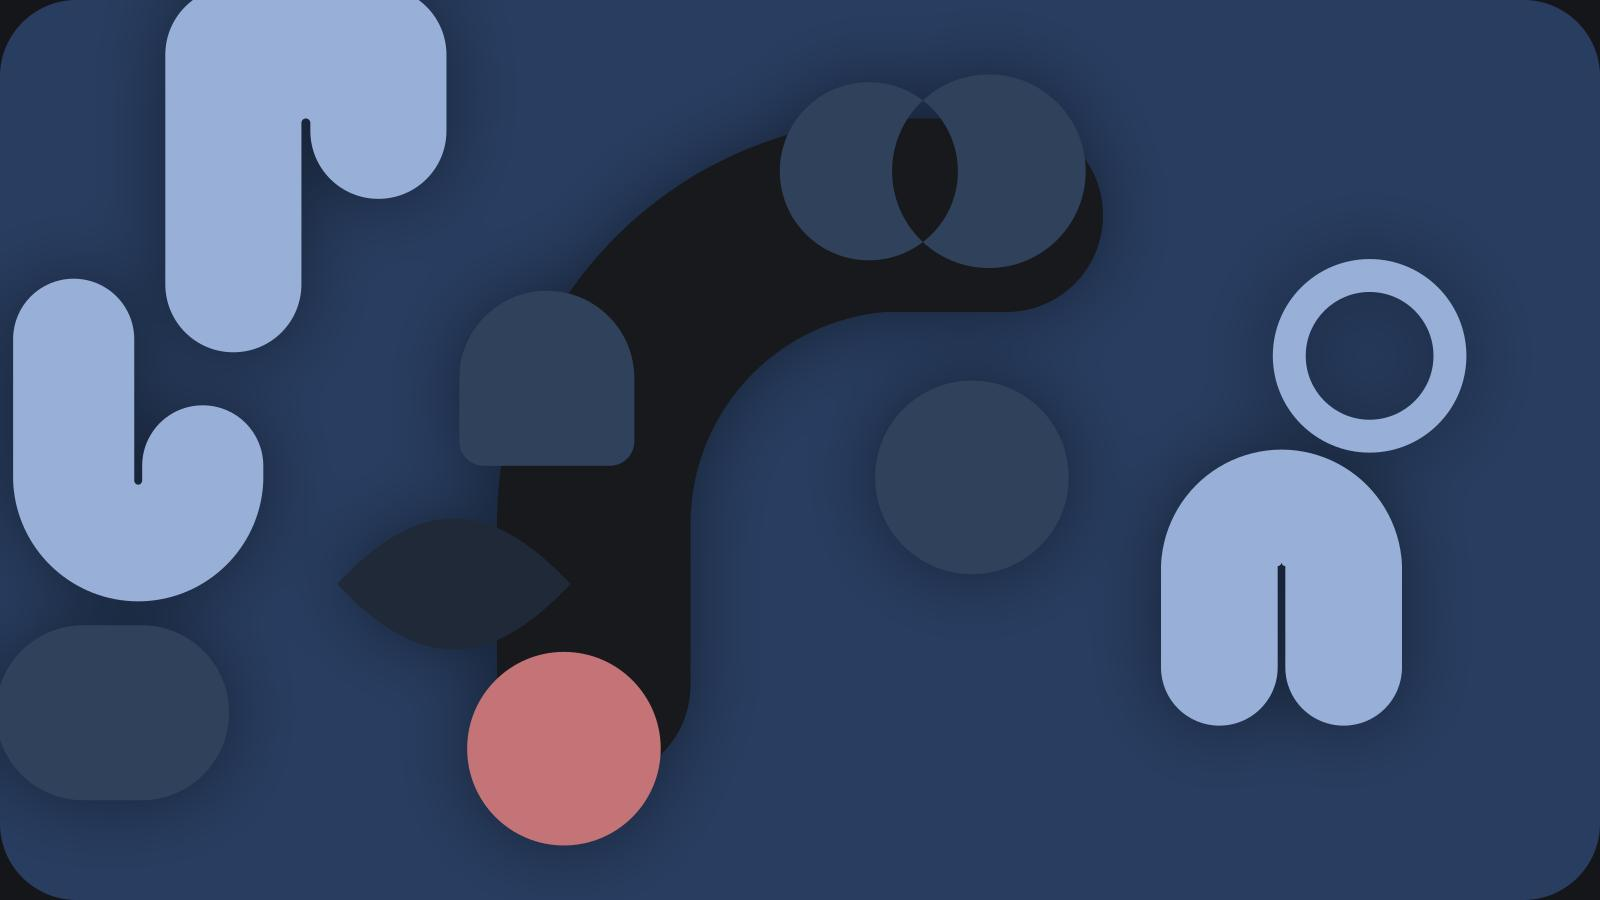
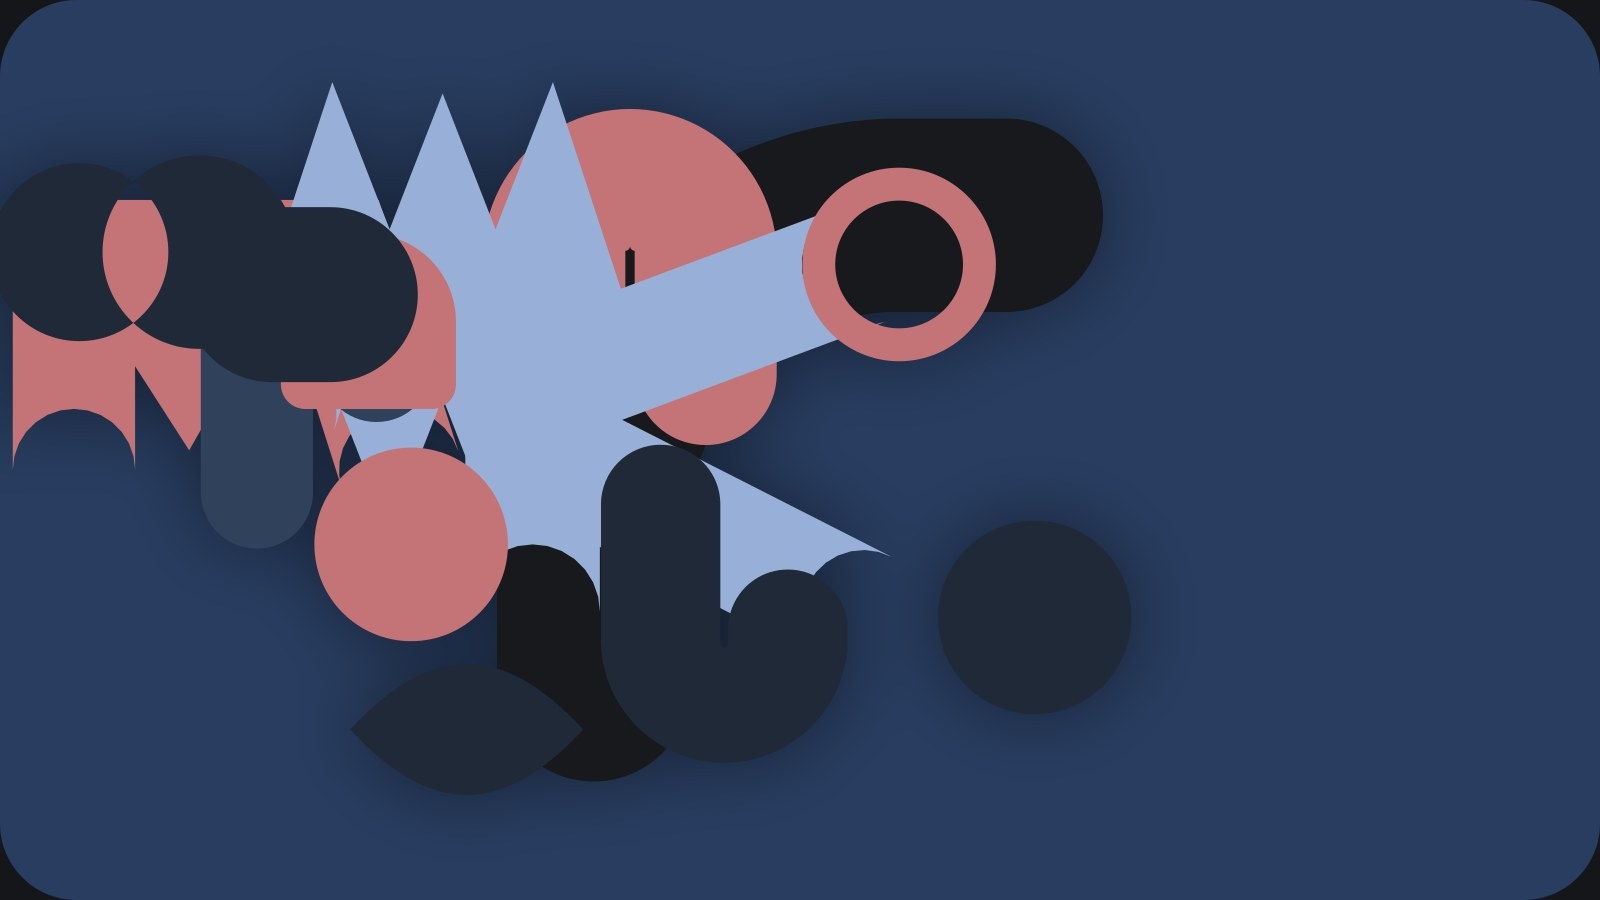
feat: new letters m/w/k, tile-cached auto packer, pipx wheel
- generated tube-style letters m, w, k (material stroke ~400-430 design px,
  consistent keegl) added to assets/shapes.json layout1; ranked_shapes and
  autofill LETTERS/dominant pools use them
- rework autofill placement: cache per-shape local masks (quantised scale,
  full-resolution render reduced to grid cells) so the greedy packer no longer
  redraws the whole canvas per trial — ~3x faster builds
- fix packer rollback: volume guard moved before placing so occ mask and
  items list stay consistent
- bundle assets/shapes.json into the wheel (package-data); version 0.2.0;
  README: pipx install from wheel

diff --git a/wallgen/autofill.py b/wallgen/autofill.py
@@ -85,6 +85,79 @@ def _mask(*items) -> np.ndarray:
     return arr[:, :, 0] < 128
 
 
+_TILE_CACHE: Dict[Tuple, Tuple[np.ndarray, int, int]] = {}
+
+
+def _tile(item) -> Tuple[np.ndarray, int, int]:
+    """Cached local mask of `item` plus its design-space cell anchor.
+
+    Renders the shape once into a tight grid buffer centred on (0,0); placement
+    then shifts this tile by whole cells, so the packer never redraws a shape
+    mask per trial position.  The shape scale is quantised to GRID-sized steps
+    so repeated/neighbouring scales collapse onto the same cached tile. Returns
+    (tile, row0, col0) — top-left cell offset from the shape centre.
+    """
+    qs = round(getattr(item, "scale", 1.0) * (100.0 / GRID)) / (100.0 / GRID) if item.kind == "letter" else None
+    key = (item.kind,
+           (item.letter, item.layout, qs) if item.kind == "letter" else
+           (round(item.w, 1), round(item.h, 1), round(item.r, 1),
+            round(getattr(item, "hole", 0.66), 3), round(getattr(item, "shift", 0.62), 3)))
+    if key in _TILE_CACHE:
+        return _TILE_CACHE[key]
+
+    base = _item_of(item)
+    if item.kind == "letter":
+        base.scale = qs
+    nw, nh = _natural(item.kind, w=base.w, h=base.h, r=base.r, shift=base.shift,
+                      layout=base.layout, letter=base.letter)
+    sc = base.scale if base.kind == "letter" else 1.0
+    nw, nh = nw * sc, nh * sc
+    hc = max(int(np.ceil(min(nh, 3000) / GRID)) + 2, 3)
+    wc = max(int(np.ceil(min(nw, 3000) / GRID)) + 2, 3)
+
+    surf = cairo.ImageSurface(cairo.FORMAT_ARGB32, wc * GRID, hc * GRID)
+    cr = cairo.Context(surf)
+    cr.set_source_rgb(1, 1, 1)
+    cr.paint()
+    cr.scale(1.0 / GRID, 1.0 / GRID)
+    cr.translate(wc * GRID / 2.0, hc * GRID / 2.0)
+    _trace(cr, base)
+    cr.set_source_rgb(0, 0, 0)
+    cr.fill()
+    arr = np.frombuffer(surf.get_data(), np.uint8).reshape(hc * GRID, wc * GRID, 4)
+    tile = arr[:, :, 0] < 128
+    tile = tile.reshape(hc, GRID, wc, GRID).any(3).any(1)
+
+    _TILE_CACHE[key] = (tile, -(hc // 2), -(wc // 2))
+    return _TILE_CACHE[key]
+
+
+def _item_of(it) -> Item:
+    """A placement-free copy respecting item.scale so caching is stable."""
+    base = Item(it.kind, "", 0.0, 0.0,
+                w=getattr(it, "w", 0), h=getattr(it, "h", 0), r=getattr(it, "r", 0),
+                shift=getattr(it, "shift", 0.62), hole=getattr(it, "hole", 0.66))
+    if it.kind == "letter":
+        base = Item("letter", "", 0.0, 0.0, layout=it.layout, letter=it.letter)
+        base.scale = it.scale if hasattr(it, "scale") else 1.0
+    return base
+
+
+def _place_mask(occ: np.ndarray, item: Item) -> bool:
+    """Try to fold `item` into occ (zero collision); True if placed."""
+    tile, row0, col0 = _tile(item)
+    th, tw = tile.shape
+    cy = int(round(item.y / GRID)) + row0
+    cx = int(round(item.x / GRID)) + col0
+    if cy < 0 or cx < 0 or cy + th > GH or cx + tw > GW:
+        return False
+    window = occ[cy:cy + th, cx:cx + tw]
+    if int(np.logical_and(window, tile).sum()) > 0:
+        return False
+    window |= tile
+    return True
+
+
 def _stroke(item) -> float:
     """Approximate stroke weight (кегль) in design px."""
     W = 360
@@ -183,16 +256,16 @@ def _sized(kind: str, scale: float, **kw) -> Item:
 
 
 def _plot(occ: np.ndarray, item: Item) -> np.ndarray:
-    """occ | ink(item) — new mask with the item added (origin-relative placement)."""
-    m = _mask(item)
-    return occ | m
+    """Return occ | item — via cached tile placement (origin-relative)."""
+    _place_mask(occ, item)
+    return occ
 
 
 # ---------------------------------------------------------------------------
 # composition driver
 # ---------------------------------------------------------------------------
 
-LETTERS = ("boomerang", "n", "r", "j")
+LETTERS = ("boomerang", "n", "r", "j", "m", "w", "k")
 ROLES_HIER = ("deep", "mid", "dark", "container2", "accent", "accent2", "light")
 
 
@@ -203,23 +276,25 @@ def build(portrait: bool = False, rng=None) -> Layout:
     rng = rng or random
 
     # 1) dominant: a big letter, or an oversized ring whose hollow gets filled.
-    dom_letter = rng.choice(["boomerang", "boomerang", "n"] if not portrait
-                            else ["n", "r", "j", "boomerang"])
+    if portrait:
+        dom_letter = rng.choice(["n", "n", "r", "j", "k", "boomerang"])
+    else:
+        dom_letter = rng.choice(["w", "boomerang", "boomerang", "m", "n", "k"])
     if rng.random() < 0.22 and not portrait:
         dominant = Item("ring", "deep", 1920.0, 1080.0, r=480.0)
     else:
         dominant = Item("letter", "deep", 1920.0, 1080.0, layout="layout1", letter=dom_letter)
         if portrait:
-            dominant.scale = 1.15 if dom_letter in ("n", "r", "j") else 1.0
+            dominant.scale = 1.15 if dom_letter in ("n", "r", "j", "k") else 1.0
 
     items = [dominant]
-    occ = _mask(*items)
+    occ = np.zeros((GH, GW), bool)
+    _place_mask(occ, dominant)
     dom_stroke = _stroke(dominant)
 
     def try_place(item, x, y) -> bool:
         item.x, item.y = x, y
-        own = _mask(item)
-        if int(np.logical_and(own, occ).sum()) > 0:
+        if not _place_mask(occ, item):
             return False
         items.append(item)
         return True
@@ -256,7 +331,6 @@ def build(portrait: bool = False, rng=None) -> Layout:
             continue
         for jx, jy in ((0, 0), (GRID * 0.6, 0), (-GRID * 0.6, 0), (0, GRID * 0.6), (0, -GRID * 0.6)):
             if try_place(item, cx + jx, cy + jy):
-                occ = _mask(*items)
                 break
 
     # 3) greedily pack mid + accent shapes into remaining open canvas
@@ -285,15 +359,10 @@ def build(portrait: bool = False, rng=None) -> Layout:
             y = rng.uniform(320, DESIGN_H - 320)
             item = _sized(kind, s, **kw)
             item.role = rng.choice(["accent", "accent2", "light", "container2"])
+            if volume(item) > dom_vol * 0.6:
+                continue
             if not try_place(item, x, y):
                 continue
-            try:
-                if volume(item) > dom_vol * 0.6:
-                    items.pop()
-                    continue
-            except Exception:
-                pass
-            occ = _mask(*items)
             placed = True
             break
 
@@ -308,7 +377,6 @@ def build(portrait: bool = False, rng=None) -> Layout:
             aitem.role = anchor_role
             for jx in (0, GRID * 2, -GRID * 2):
                 if try_place(aitem, 1920 + jx, ay):
-                    occ = _mask(*items)
                     break
 
     return Layout("auto", items, "panel", portrait)

diff --git a/wallgen/shapes.py b/wallgen/shapes.py
@@ -239,7 +239,7 @@ def volume(item) -> float:
 def ranked_shapes() -> list:
     """All shape families ranked by occupied volume (design px^2), biggest first."""
     rows = []
-    for kind in ("boomerang", "n", "r", "j"):
+    for kind in ("w", "boomerang", "m", "n", "k", "r", "j"):
         it = type("I", (), {
             "kind": "letter", "layout": "layout1", "letter": kind,
             "w": 0, "h": 0, "r": 0, "hole": 0, "shift": 0,

diff --git a/README.md b/README.md
@@ -16,6 +16,14 @@ pip install -e . --break-system-packages   # системная установк
 python3 -m venv .venv && . .venv/bin/activate && pip install -e .
 ```
 
+**Через pipx** (изолированно, без вмешательства в системный Python):
+
+```bash
+pipx install https://github.com/Minish777/wallgen-remastered/releases/latest/download/wallgen-0.2.0-py3-none-any.whl
+# или из локальной сборки:
+python3 -m build && pipx install ./dist/wallgen-0.2.0-py3-none-any.whl
+```
+
 **Автоматический установщик** (создаёт venv):
 
 ```bash
@@ -77,7 +85,7 @@ wallgen -L auto -fp 1080x2400
 
 ## Новое
 
-- **Фигуры** — буквы (`boomerang`, `n`, `r`, `j`), арка, лист, кольцо, полумесяц, пилюли и круги.
+- **Фигуры** — буквы (`boomerang`, `n`, `r`, `j`, `m`, `w`, `k`), арка, лист, кольцо, полумесяц, пилюли и круги.
 - **Ранжирование по объёму** — `ranked_shapes()` сортирует все фигуры по занимаемой площади; объёмы меряются растровым силуэтом.
 - **Авто-раскладка** `-L auto` — движок `autofill`: выбирает доминанту (буква или большое кольцо), растрирует её и детектирует **замкнутые пустоты** (например, дырку кольца), затем заполняет их подходящими фигурами с соблюдением кегля (толщина штриха ~ как у доминанты). Остаток канвы жадно заселяется в порядке убывания объёма при нулевых коллизиях. Каждый запуск — новая, структурно корректная композиция.
 - **Телефон** `-fp WxH` — вертикальная раскладка с `rotate=0` (буквы прямо).
